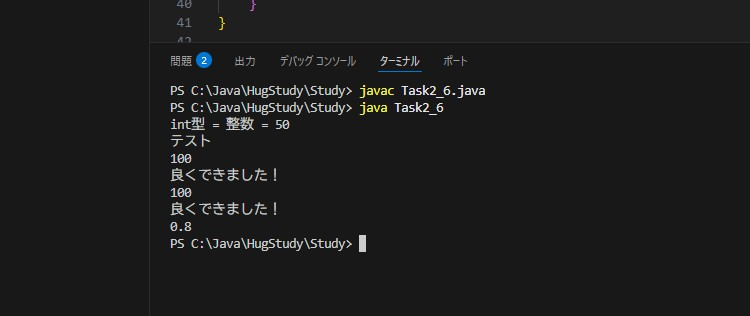
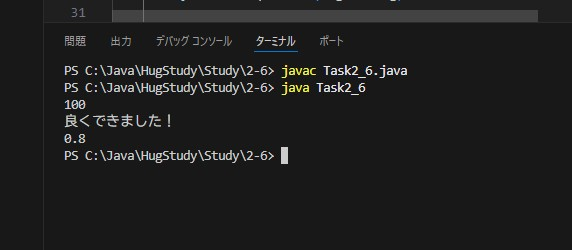
2-6修正

diff --git a/Study/2-6/Task2_6.java b/Study/2-6/Task2_6.java
@@ -6,11 +6,9 @@ public class Task2_6 {
 
         // ①int型の hogeInt という名前の変数を宣言し、値「50」で初期化
         int hogeInt = 50;
-        System.out.println("int型 = 整数 = " + hogeInt);
 
         // ②Stringクラスの hogeString という名前の変数を宣言、値「テスト」で初期化
         String hogeString = "テスト";
-        System.out.println(hogeString);
 
         // ③下記の処理について、何をしているのかコメントを記入してください
         // [double型の hogeInt という名前の変数を宣言し、値「0.8」で初期化]
@@ -19,12 +17,10 @@ public class Task2_6 {
 
         // ④変数 hogeInt を値「100」で上書き
         hogeInt = 100;
-        System.out.println(hogeInt);
 
         
         // ⑤変数 hogeString を値「良くできました！」で上書き
         hogeString = "良くできました！";
-        System.out.println(hogeString);
 
         // ⑥変数 hogeInt の値を表示
         System.out.println(hogeInt);
